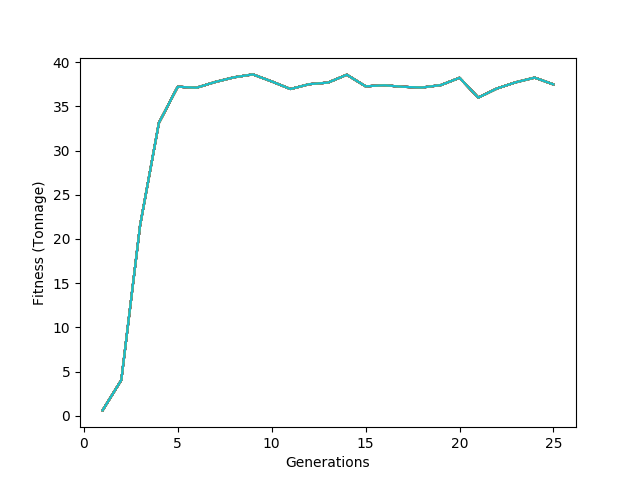
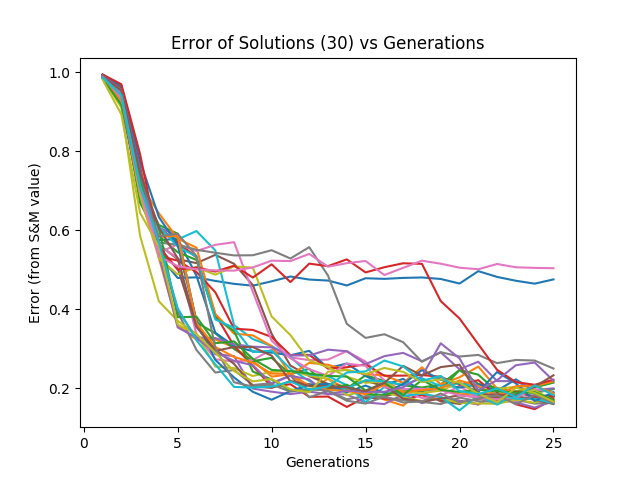
Wrapping up.

diff --git a/Code/tabulate.py b/Code/tabulate.py
@@ -16,7 +16,7 @@ second_out = "primary_out.csv"
 
 first_table_data = []
 
-one = "S&M"
+one = "S\&M"
 two = "GA1"
 three = "GA2"
 four = "GA3"
@@ -39,10 +39,17 @@ for line in f:
 	sml = linesm.split()
 
 	row1 = [one, int(sml[0]), int(sml[1]), float(sml[2]), float(sml[3])]
-	row2 = [two, int(float(data[1])), int(data[3]), float(data[11]), float(data[14])]
-	row3 = [three, int(float(data1[1])), int(data1[3]), float(data1[11]), float(data1[14])]
-	row4 = [four, int(float(data2[1])), int(data2[3]), float(data2[11]), float(data2[14])]
+	row2 = [two, int(float(data[1])), int(data[3]), float(data[11]), "1/5/10"]
+	row3 = [three, int(float(data1[1])), int(data1[3]), float(data1[11]), "1/5/10"]
+	row4 = [four, int(float(data2[1])), int(data2[3]), float(data2[11]), "1/5/10"]
 
+
+	'''
+	row1 = [one, int(sml[0]), int(sml[1]), float(sml[2]), float(sml[3]), "-", "-"]
+	row2 = [two, int(float(data[1])), int(data[3]), float(data[11]), float(data[14]), int(data[7]), int(data[5])]
+	row3 = [three, int(float(data1[1])), int(data1[3]), float(data1[11]), float(data1[14]), int(data1[7]), int(data1[5])]
+	row4 = [four, int(float(data2[1])), int(data2[3]), float(data2[11]), float(data2[14]), int(data2[7]), int(data2[5])]
+	'''
 	first_table_data.append(row1)
 	first_table_data.append(row2)
 	first_table_data.append(row3)
@@ -70,9 +77,16 @@ for line in f:
 	sml = linesm.split()
 
 	row1 = [one, int(sml[0]), int(sml[1]), float(sml[2]), float(sml[3])]
-	row2 = [two, int(float(data[1])), int(data[3]), float(data[11]), float(data[14])]
-	row3 = [three, int(float(data1[1])), int(data1[3]), float(data1[11]), float(data1[14])]
-	row4 = [four, int(float(data2[1])), int(data2[3]), float(data2[11]), float(data2[14])]
+	row2 = [two, int(float(data[1])), int(data[3]), float(data[11]), "1/5/10"]
+	row3 = [three, int(float(data1[1])), int(data1[3]), float(data1[11]), "1/5/10"]
+	row4 = [four, int(float(data2[1])), int(data2[3]), float(data2[11]), "1/5/10"]
+
+	'''
+	row1 = [one, int(sml[0]), int(sml[1]), float(sml[2]), float(sml[3]), "-", "-"]
+	row2 = [two, int(float(data[1])), int(data[3]), float(data[11]), float(data[14]), int(data[7]), int(data[5])]
+	row3 = [three, int(float(data1[1])), int(data1[3]), float(data1[11]), float(data1[14]), int(data1[7]), int(data1[5])]
+	row4 = [four, int(float(data2[1])), int(data2[3]), float(data2[11]), float(data2[14]), int(data2[7]), int(data2[5])]
+	'''
 
 	second_table_data.append(row1)
 	second_table_data.append(row2)
@@ -95,7 +109,7 @@ cf.close()
 
 with open(second_out, 'w') as cf:
 	writer = csv.writer(cf)
-	for row in first_table_data:
+	for row in second_table_data:
 		writer.writerow(row)
 
 cf.close()

diff --git a/Code/plot.py b/Code/plot.py
@@ -1,4 +1,5 @@
 import matplotlib.pyplot as plt
+import csv
 from sys import argv
 
 #Example format of log
@@ -38,17 +39,28 @@ no_tests = int(argv[1])
 generations = int(argv[2])
 filename = argv[3]
 milp_val = float(argv[4])
+
+avgs = []
+bests = []
+
 print(milp_val)
 
-plt.ylabel("Fitness (Tonnage)")
+get_error = True
 
-get_error = False
+if get_error:
+	plt.ylabel("Error (from S&M value)")
+	plt.title("Error of Solutions (30) vs Generations")
+else: 
+	plt.ylabel("Fitness (Tonnage)")
+	plt.title("Fitness of Solutions (30) vs Generations")
 
-for t in range(no_tests):
-	avg_fitnesses = []
-	best_fitnesses = []
+xs = get_values(generations)
 
-	with open(filename, 'r') as f:
+with open(filename, 'r') as f:
+
+	for t in range(no_tests):
+		avg_fitnesses = []
+		best_fitnesses = []
 		f.readline()
 
 		for i in range(generations):	
@@ -57,16 +69,29 @@ for t in range(no_tests):
 			avg_fitnesses.append(float(data[5]))
 			best_fitnesses.append(float(data[8]))
 
-		print(avg_fitnesses)
-		print(best_fitnesses)
+		avgs.append(avg_fitnesses.copy())
+		bests.append(best_fitnesses.copy())
 
 		if get_error:
-			plt.ylabel("Error from S&M")
 			for a in range(len(avg_fitnesses)):
-				avg_fitnesses[i] /= milp_val
-				best_fitnesses[i] /= milp_val
+				avg_fitnesses[a] = 1.0 - avg_fitnesses[a] / milp_val
+				best_fitnesses[a] = 1.0 -  best_fitnesses[a] / milp_val
 
-	plt.plot(get_values(generations), avg_fitnesses)
+		plt.plot(xs, avg_fitnesses)
+
+f.close()
+
+output = "dummy.csv"
+of = open(output, 'w')
+writer = csv.writer(of)
+
+for i in range(generations):
+	row = [i]
+	for j in range(no_tests):
+		row.append(avgs[j][i])
+	writer.writerow(row)
+
+of.close()
 
 plt.xlabel("Generations")
 plt.savefig("30_trials_graph.png")

diff --git a/Code/ranks.py b/Code/ranks.py
@@ -1,0 +1,41 @@
+from sys import argv
+
+gp = [(1000, 50), (1000, 50), (1000, 50), (2000, 100), (2000, 100), (2000, 100)]
+suffix = ["", "rates_", "normal_"]
+in_files = ["naive_results.txt", "rates_results.txt", "normal_results.txt"]
+
+first_out = "motivating_out.csv"
+second_out = "primary_out.csv"
+
+first_table_data = []
+
+one = "S&M"
+two = "GA1"
+three = "GA2"
+four = "GA3"
+
+first_example = "Motivating_Example"
+second_example = "Primary_Example"
+
+f = open(first_example + "/" + in_files[0], 'r')
+f1 = open(first_example + "/" + in_files[1], 'r')
+f2 = open(first_example + "/" + in_files[2], 'r')
+sm = open("sandm_motivating.txt", 'r')
+
+# Log files
+for i in range(1, 7):
+	f = open(first_example + "/" + "log_" + suffix + 
+
+for line in f:
+    data = line.split()
+
+    line1, line2 = f1.readline(), f2.readline()
+    data1, data2 = line1.split(), line2.split()
+
+    linesm = sm.readline()
+    sml = linesm.split()
+
+    row1 = [one, int(sml[0]), int(sml[1]), float(sml[2]), float(sml[3]), "-", "-"]
+    row2 = [two, int(float(data[1])), int(data[3]), float(data[11]), float(data[14])]
+    row3 = [three, int(float(data1[1])), int(data1[3]), float(data1[11]), float(data1[14])]
+    row4 = [four, int(float(data2[1])), int(data2[3]), float(data2[11]), float(data2[14])]

diff --git a/Code/convert.py b/Code/convert.py
@@ -1,0 +1,4 @@
+filename = "Primary_Example/log_rates_1.txt"
+output = "dummy.csv"
+
+
